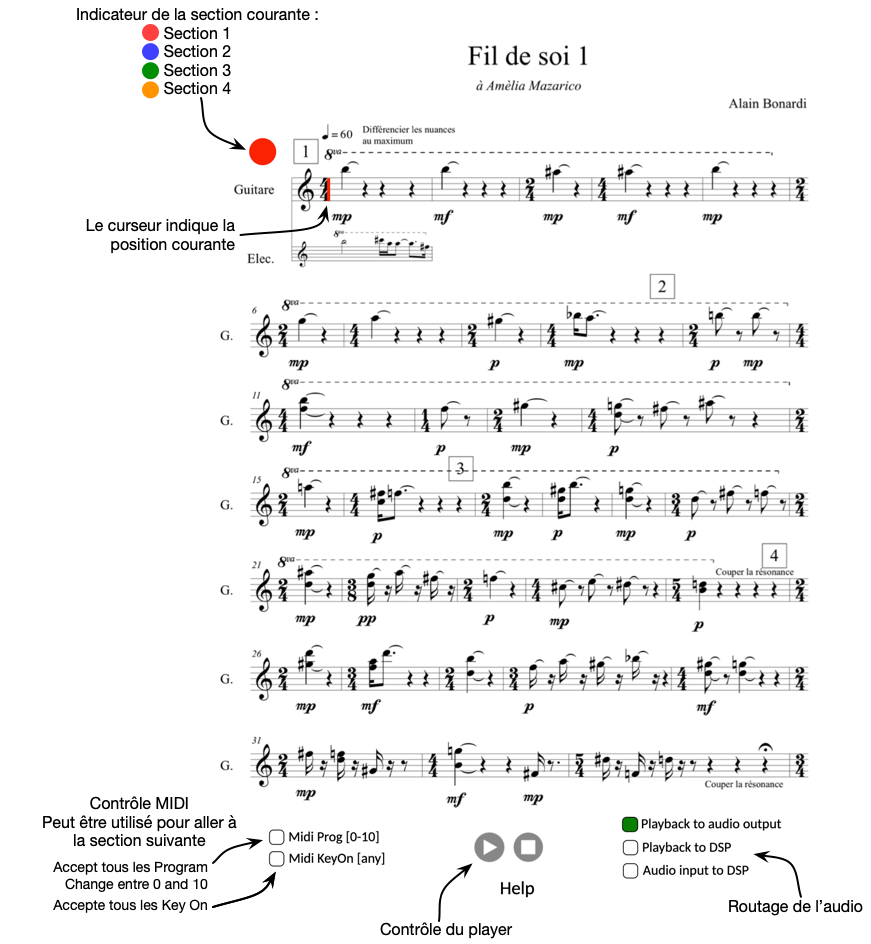
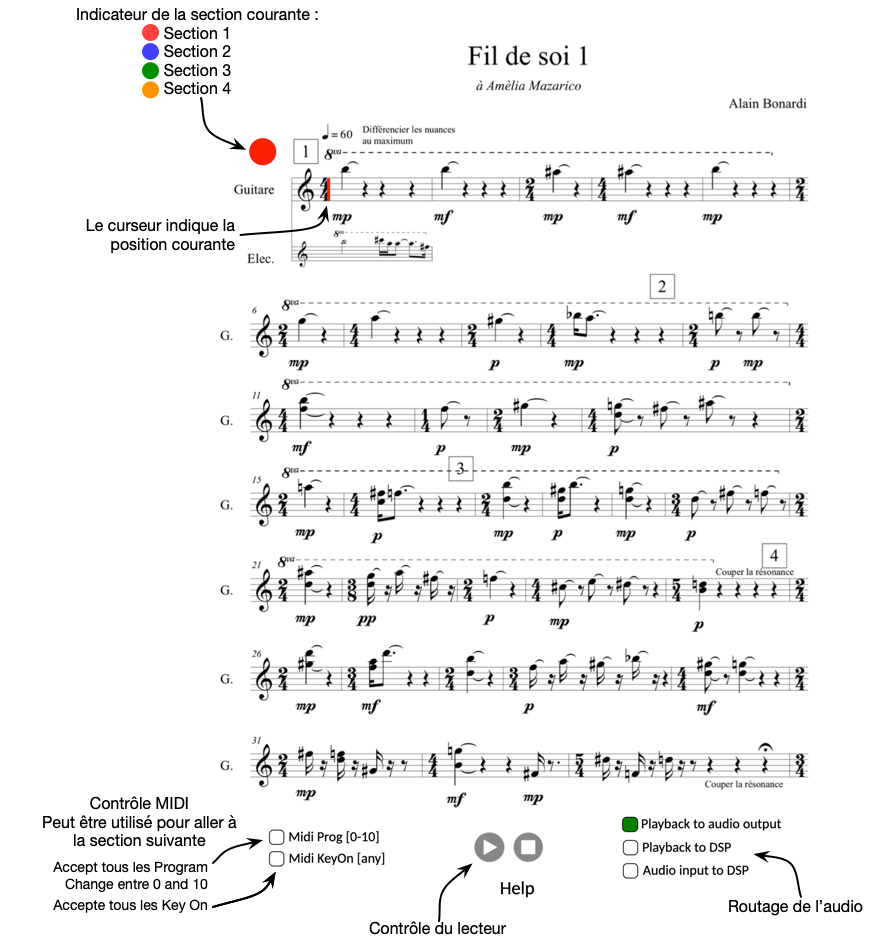
fix french version

diff --git a/javascript/scores/fildesoi1/help-fr.html b/javascript/scores/fildesoi1/help-fr.html
@@ -37,7 +37,7 @@
             <h3>Utilisation du clavier</h3>
             <p>
                 Vous pouvez appuyer sur les touches du clavier de l'ordinateur pour contrôler la partition :
-                <li>'barre d'espace' : lance ou arrête le player</li>
+                <li>'barre d'espace' : lance ou arrête le lecteur</li>
                 <li>'1' à '4' : active les paramètres de la section correspondante</li>
                 <li>'flèche droite' : passe aux paramètres de la section suivante</li>
                 <li>'flèche gauche' : passe aux paramètres de la section précédente</li>
@@ -73,7 +73,7 @@
         <li>désélectionner 'Playback to DSP'.</li>
         <li>séléctionner 'Audio input to DSP'.</li>
         <img src=rsrc/UC23.png alt="Audio routing" class=uc>
-        <p> et démarrer le player...
+        <p> et démarrer le lecteur...
             <br/>
             Notez que dans cette configuration, vous êtes contraint par le tempo de l'enregistrement.
         </p>
@@ -83,7 +83,7 @@
         <li>désélectionner 'Playback to DSP'.</li>
         <li>séléctionner 'Audio input to DSP'.</li>
         <img src=rsrc/UC23.png alt="Audio routing" class=uc>
-        <p>    ne démarrez pas le player jouez de votre instrument...
+        <p>    ne démarrez pas le lecteur jouez de votre instrument...
             <br/>
             Notez que dans ce cas le tempo est libre, mais vous devez passer manuellement à la section suivante en utilisant le clavier ou un contrôleur MIDI.
         </p>
